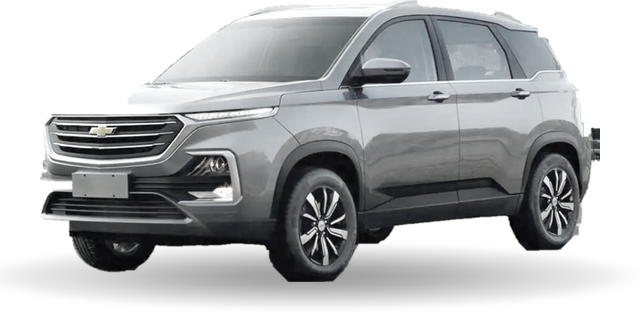
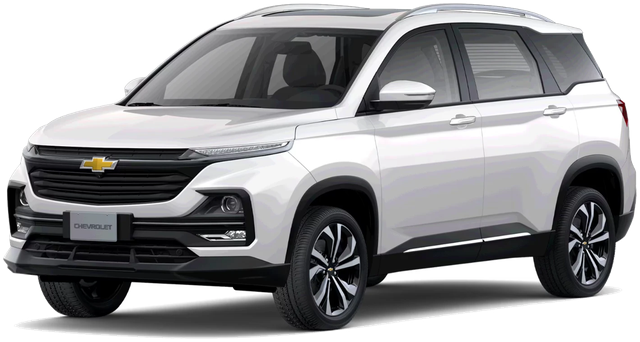
style(flota): Captiva desde la imagen oficial con fondo blanco
Claude-Session: https://claude.ai/code/session_01SU8rdiv1SZEPY28cgwHKme

diff --git a/src/lib/fleetPhotos.js b/src/lib/fleetPhotos.js
@@ -9,7 +9,7 @@ import kangoo from '../assets/vehicles/fleet/kangoo.png'
 import oroch from '../assets/vehicles/fleet/oroch.png'
 
 // Render real por placa para los 24 vehículos del seed original (captiva.png: la Captiva que se vende en
-// Colombia, recortada de la foto que mandó Alejo) (mismo modelo real =
+// Colombia, de la imagen oficial con fondo blanco que mandó Alejo) (mismo modelo real =
 // misma imagen, para no pagar generaciones repetidas de un carro pixel-idéntico).
 // Vehículo nuevo que no esté aquí simplemente no tiene entrada — VehiclePhoto cae al
 // ícono genérico por tipo.
